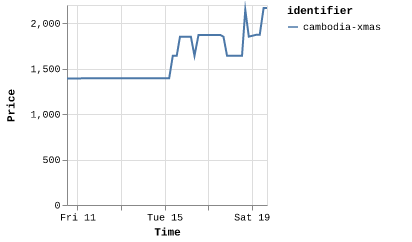
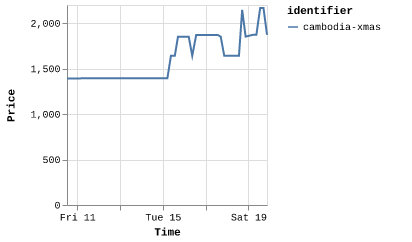
Latest scraping flights: Sat Jul 19 20:49:22 UTC 2025

diff --git a/scrapes/flights/cambodia-xmas.md b/scrapes/flights/cambodia-xmas.md
@@ -1,1 +1,1 @@
-€2,167
+€1,872
